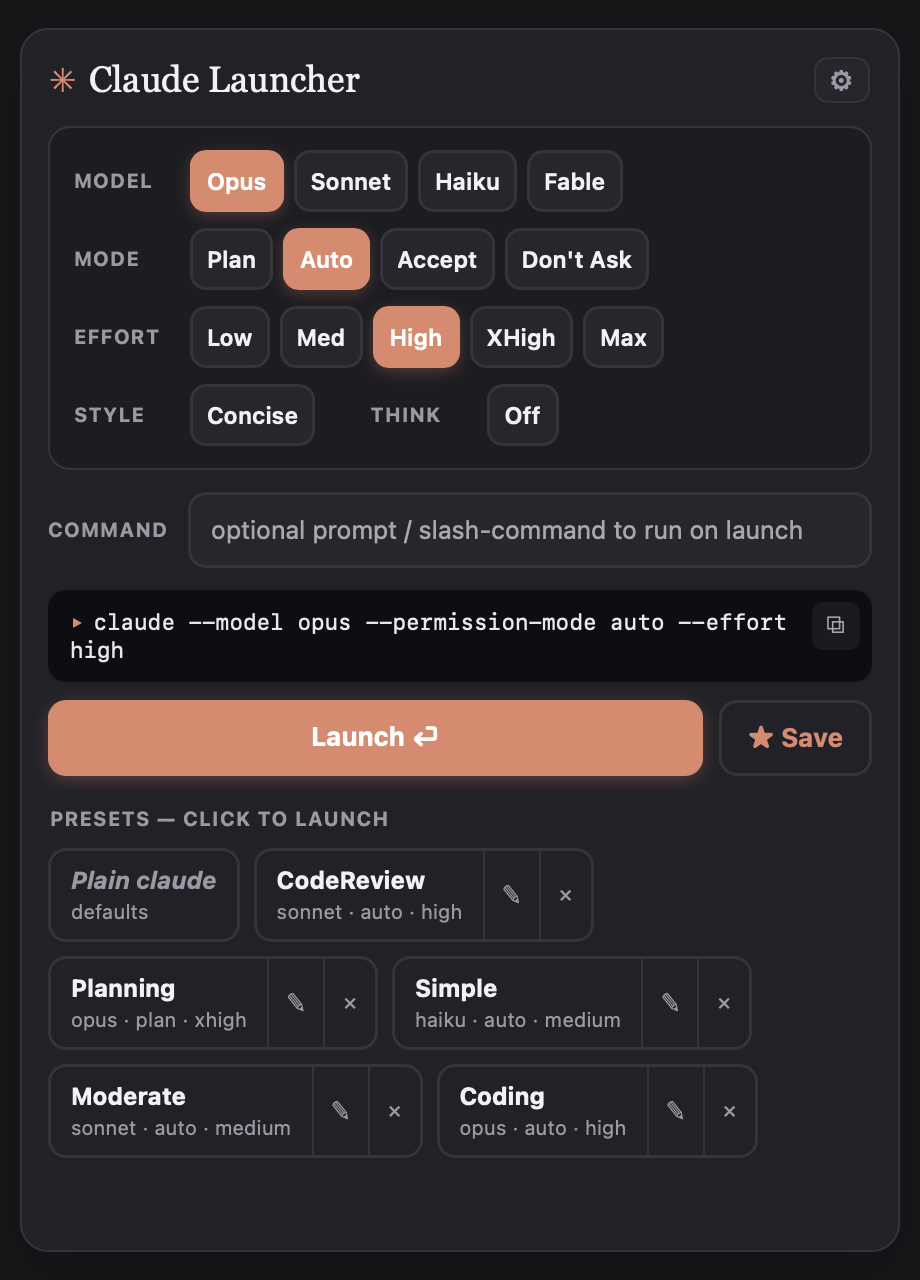
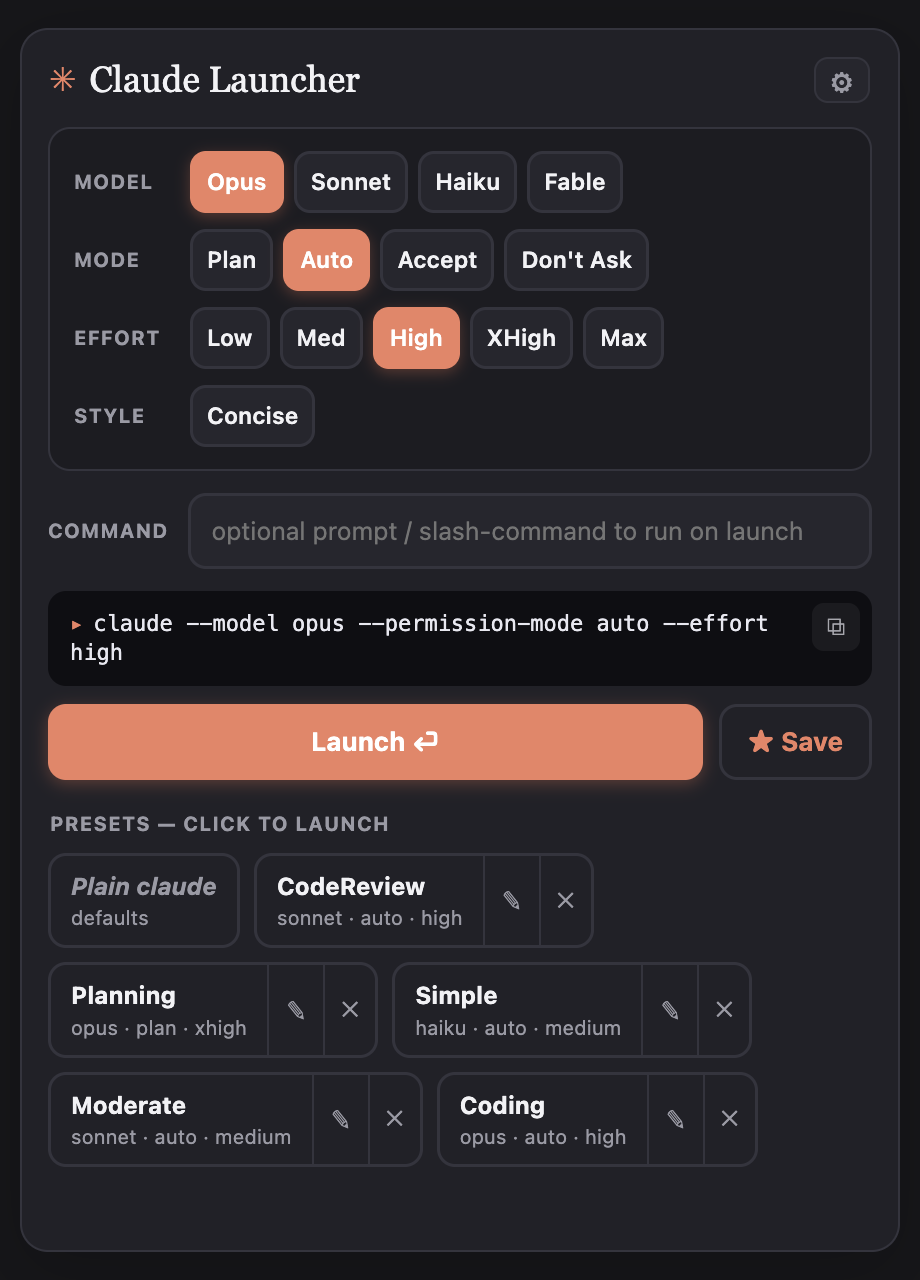
feat(ui): remove the think dial from the launcher panel (#36)

diff --git a/src/renderer/panel.ts b/src/renderer/panel.ts
@@ -2,7 +2,6 @@ import {
   MODES,
   EFFORTS,
   OUTPUT_STYLES,
-  THINKING_BUDGETS,
   DEFAULT_MODE,
   capabilitiesFor,
   effectiveModels,
@@ -42,7 +41,7 @@ let cancelRecording: (() => void) | null = null;
 
 let presets: Preset[] = [];
 let settings: Settings = { terminal: "iTerm", wd: "", cmd: "", claudeBinary: "", models: [], hotkey: "", forkSubagent: "" };
-const sel = { model: "opus", mode: "auto", effort: "high", outputStyle: "", thinkingBudget: "" };
+const sel = { model: "opus", mode: "auto", effort: "high", outputStyle: "" };
 // Transient composer state (per-launch). wd seeds from the settings default; cmd
 // is entered inline before each launch (not persisted).
 const composer = { wd: "", cmd: "" };
@@ -54,12 +53,10 @@ const composed = (): LaunchSpec => ({
   mode: sel.mode || DEFAULT_MODE,
   effort: sel.effort,
   outputStyle: sel.outputStyle,
-  thinkingBudget: sel.thinkingBudget,
+  thinkingBudget: "",
   wd: composer.wd,
   cmd: composer.cmd,
 });
-
-const THINKING_INERT_HINT = "This model keeps thinking on; the budget setting has no effect.";
 
 /** The launchable LaunchSpec view of a saved preset (drops its id/name). */
 const launchSpecOf = (p: Preset): LaunchSpec => ({
@@ -81,11 +78,10 @@ function disableTextAssist(input: HTMLInputElement): void {
   input.spellcheck = false;
 }
 
-function sqBtn(label: string, on: boolean, onclick: () => void, disabled = false, title = ""): HTMLButtonElement {
+function sqBtn(label: string, on: boolean, onclick: () => void, disabled = false): HTMLButtonElement {
   const b = document.createElement("button");
   b.className = "sq" + (on ? " on" : "") + (disabled ? " disabled" : "");
   b.textContent = label;
-  if (title) b.title = title;
   if (!disabled) b.onclick = onclick;
   return b;
 }
@@ -98,13 +94,11 @@ function renderDials(): void {
   const caps = capabilitiesFor(sel.model);
   if (!caps.effort) sel.effort = "";
   if (caps.blockedModes.includes(sel.mode)) sel.mode = "";
-  if (!caps.thinkingBudget) sel.thinkingBudget = "";
   const groups: [string, { value: string; label: string }[], keyof typeof sel][] = [
     ["g-model", currentModels(), "model"],
     ["g-mode", MODES, "mode"],
     ["g-effort", EFFORTS, "effort"],
     ["g-style", OUTPUT_STYLES, "outputStyle"],
-    ["g-thinking", THINKING_BUDGETS, "thinkingBudget"],
   ];
   for (const [elId, options, key] of groups) {
     const host = $(elId);
@@ -112,8 +106,7 @@ function renderDials(): void {
     for (const o of options) {
       const disabled =
         (key === "effort" && !caps.effort) ||
-        (key === "mode" && caps.blockedModes.includes(o.value)) ||
-        (key === "thinkingBudget" && !caps.thinkingBudget);
+        (key === "mode" && caps.blockedModes.includes(o.value));
       host.appendChild(
         sqBtn(
           o.label,
@@ -124,7 +117,6 @@ function renderDials(): void {
             renderPreview();
           },
           disabled,
-          disabled && key === "thinkingBudget" ? THINKING_INERT_HINT : "",
         ),
       );
     }
@@ -175,7 +167,6 @@ function presetEl(p: Preset, plain: boolean): HTMLElement {
       sel.mode = p.mode;
       sel.effort = p.effort;
       sel.outputStyle = p.outputStyle;
-      sel.thinkingBudget = p.thinkingBudget;
       composer.wd = p.wd;
       composer.cmd = p.cmd;
       ($("cmd") as HTMLInputElement).value = p.cmd;

diff --git a/src/renderer/index.html b/src/renderer/index.html
@@ -20,10 +20,7 @@
       <div class="group"><span class="glabel">Model</span><div class="row" id="g-model"></div></div>
       <div class="group"><span class="glabel">Mode</span><div class="row" id="g-mode"></div></div>
       <div class="group"><span class="glabel">Effort</span><div class="row" id="g-effort"></div></div>
-      <div class="pair">
-        <div class="group"><span class="glabel">Style</span><div class="row" id="g-style"></div></div>
-        <div class="group"><span class="glabel">Think</span><div class="row" id="g-thinking"></div></div>
-      </div>
+      <div class="group"><span class="glabel">Style</span><div class="row" id="g-style"></div></div>
     </div>
     <div class="cmd-field">
       <span class="glabel">Command</span>

diff --git a/src/renderer/panel.css b/src/renderer/panel.css
@@ -46,8 +46,6 @@
     background:var(--panel-2); border:1px solid var(--border); border-radius:11px; padding:11px 12px; }
   .group { display:flex; align-items:center; gap:10px; }
   .group > .glabel { flex:0 0 48px; font-size:10px; font-weight:700; letter-spacing:.05em; text-transform:uppercase; color:var(--muted); }
-  /* Style + Think share a line; Think wraps under Style if the width runs out. */
-  .pair { display:flex; flex-wrap:wrap; gap:8px 40px; }
   .row { display:flex; gap:5px; flex-wrap:wrap; }
   .sq {
     min-width:36px; height:31px; padding:0 7px; border:1.5px solid var(--border);

diff --git a/README.md b/README.md
@@ -22,7 +22,7 @@
 
 ## Overview
 
-**Claude Session Launcher** is a small [Tauri](https://tauri.app/) menu-bar widget that opens a `claude` CLI session in your terminal with **model**, **permission mode** and **effort** already chosen (plus output style, thinking, working directory and an initial command). Save the combinations you use as named presets and launch them in one click or one hotkey.
+**Claude Session Launcher** is a small [Tauri](https://tauri.app/) menu-bar widget that opens a `claude` CLI session in your terminal with **model**, **permission mode** and **effort** already chosen (plus output style, working directory and an initial command). Save the combinations you use as named presets and launch them in one click or one hotkey.
 
 It writes a shell command into your terminal. It does not embed or wrap the CLI, so every session is a normal `claude` session.
 
@@ -38,7 +38,7 @@ It writes a shell command into your terminal. It does not embed or wrap the CLI,
 
 | Launcher                                                                                                         | Settings                                                                                       |
 | ---------------------------------------------------------------------------------------------------------------- | ---------------------------------------------------------------------------------------------- |
-| ![Launcher panel with model, mode, effort, style and think dials, command field and presets](docs/images/panel.png) | ![Settings screen with terminal choice, model list, working directory, Claude binary and global hotkey](docs/images/settings.png) |
+| ![Launcher panel with model, mode, effort and style dials, command field and presets](docs/images/panel.png) | ![Settings screen with terminal choice, model list, working directory, Claude binary and global hotkey](docs/images/settings.png) |
 
 The **launcher** shows the dials, a live preview of the exact command it will run (with a copy button), and your presets underneath. Click a preset to launch it immediately, or use the pencil to load it back into the dials.
 
@@ -46,7 +46,7 @@ The **settings** screen picks your terminal, edits the model list, and sets a de
 
 ## Features
 
-- **Dials for every launch** — Model, Mode (Plan, Auto, Accept, Don't Ask), Effort (Low to Max), output Style and Think. Dials that a model doesn't support are greyed out.
+- **Dials for every launch** — Model, Mode (Plan, Auto, Accept, Don't Ask), Effort (Low to Max), and output Style. Dials that a model doesn't support are greyed out.
 - **Live command preview** — The exact `claude ...` command is shown before you launch it and can be copied. The preview comes from the same Rust code that runs the launch, so it can't drift from what actually runs.
 - **Presets** — Save, edit and delete named combinations, including their working directory and command. Starter presets are seeded on first run.
 - **Inline command** — Optionally pass a prompt or slash command to run as soon as the session starts.
